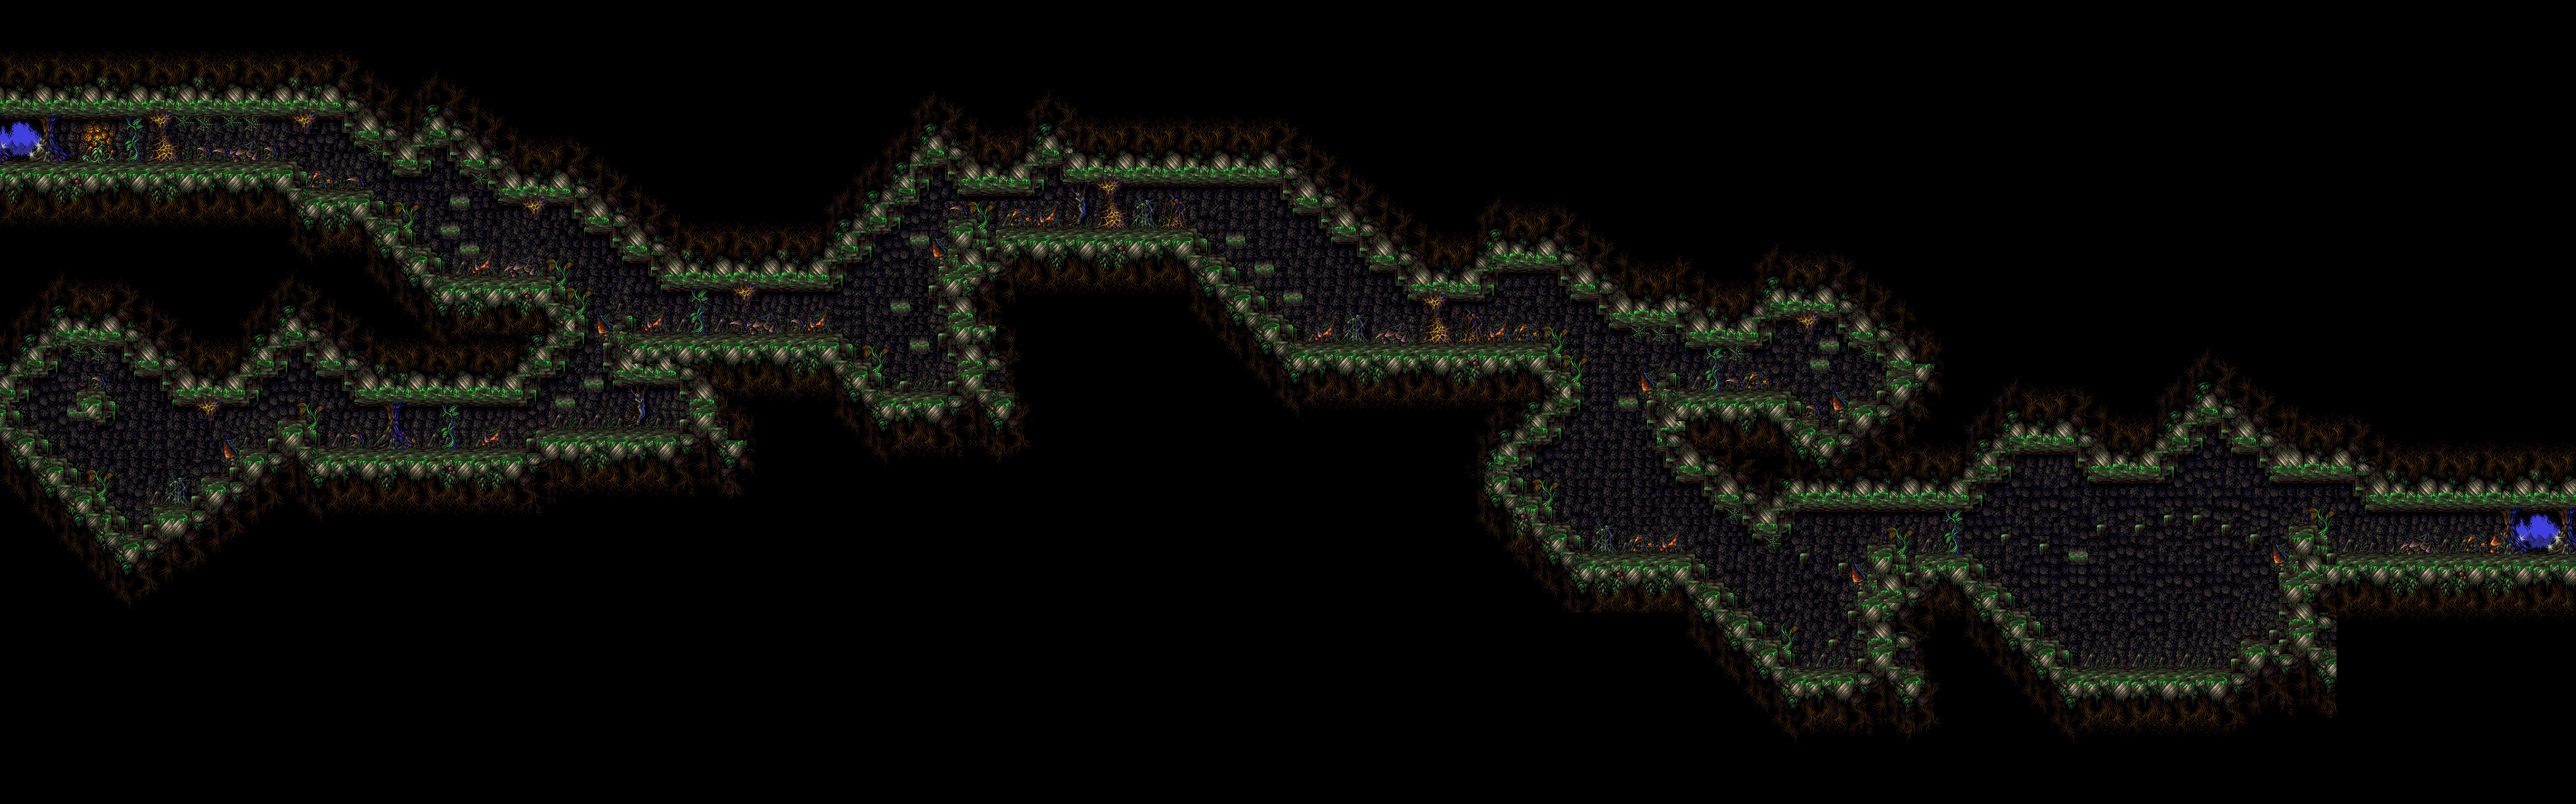
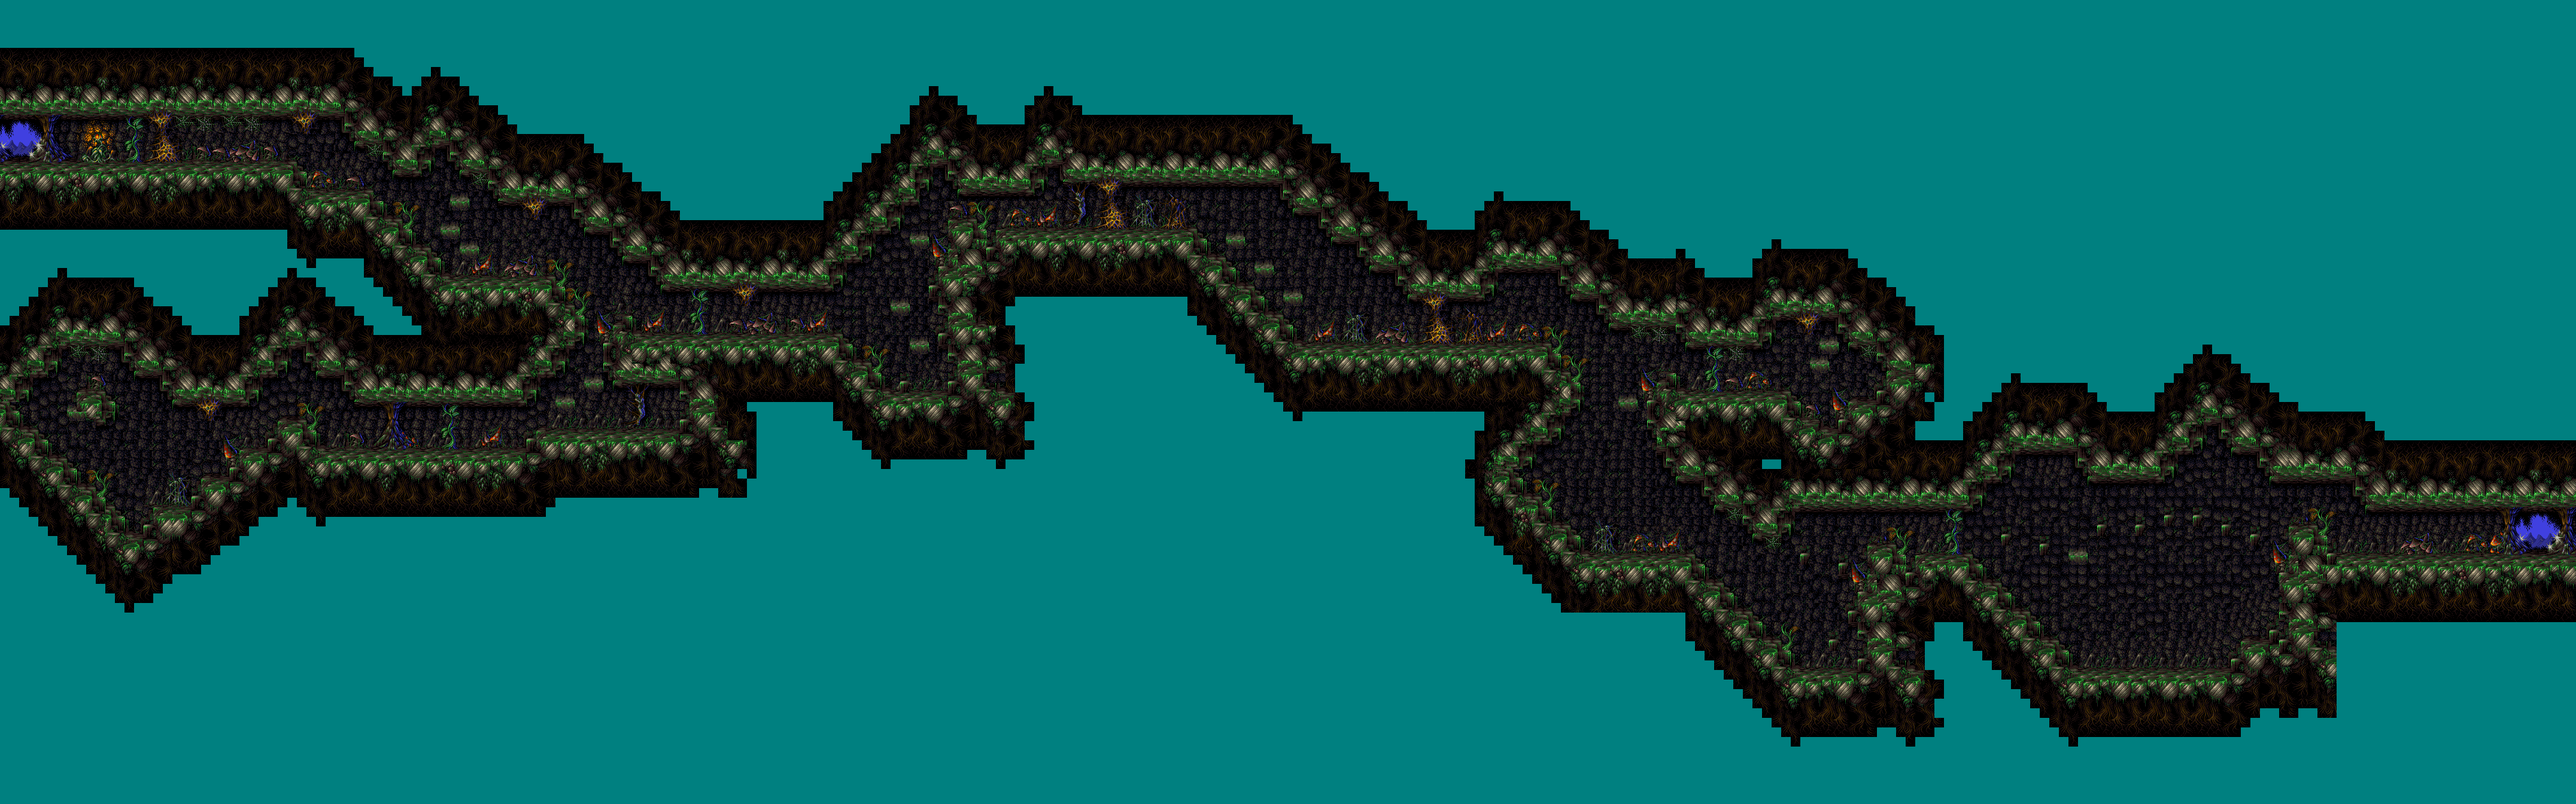
#208: Stages rip fixed. Tools updated.

diff --git a/lionheart-pc/src/main/java/com/b3dgs/lionheart/Tools.java b/lionheart-pc/src/main/java/com/b3dgs/lionheart/Tools.java
@@ -20,6 +20,7 @@ import com.b3dgs.lionengine.LionEngineException;
 import com.b3dgs.lionengine.Media;
 import com.b3dgs.lionengine.Medias;
 import com.b3dgs.lionengine.awt.graphic.EngineAwt;
+import com.b3dgs.lionengine.graphic.ColorRgba;
 import com.b3dgs.lionengine.graphic.Graphics;
 import com.b3dgs.lionengine.graphic.ImageBuffer;
 import com.b3dgs.lionheart.constant.Folder;
@@ -46,12 +47,58 @@ public final class Tools
     public static void main(String[] args) // CHECKSTYLE IGNORE LINE: TrailingComment|UncommentedMain
     {
         EngineAwt.start(Constant.PROGRAM_NAME, Constant.PROGRAM_VERSION, Tools.class);
-        // generateTileRaster(LandscapeType.DRAGONFLY);
+        // generateTileRaster(LandscapeType.SWAMP_DUSK);
         // generateTileRasterInside(LandscapeType.LAVA);
         // generateObjectRasterInside(LandscapeType.LAVA, "entity/lava/FloaterCube.png");
         // generateTileWaterRaster(LandscapeType.NORKA);
         // generateObjectWaterRaster(LandscapeType.NORKA, "pillar", 1, 1);
         // generateMoonRaster(LandscapeType.LAVA);
+        check(Medias.create("levels/spidercave2/level4_hard.png"));
+    }
+
+    private static final int COLOR2 = new ColorRgba(0, 128, 128).getRgba();
+
+    private static void check(Media level)
+    {
+        final ImageBuffer buffer = Graphics.getImageBuffer(level);
+        for (int y = 0; y < buffer.getHeight(); y += 16)
+        {
+            for (int x = 0; x < buffer.getWidth(); x += 16)
+            {
+                if (isColor(buffer, x, y))
+                {
+                    setColor(buffer, x, y);
+                }
+            }
+        }
+        Graphics.saveImage(buffer, Medias.create("stage10_hard.png"));
+    }
+
+    private static boolean isColor(ImageBuffer buffer, int x, int y)
+    {
+        for (int y1 = 0; y1 < 16; y1++)
+        {
+            for (int x1 = 0; x1 < 16; x1++)
+            {
+                if (buffer.getRgb(x + x1, y + y1) != ColorRgba.BLACK.getRgba())
+                {
+                    return false;
+                }
+            }
+        }
+        return true;
+    }
+
+    private static boolean setColor(ImageBuffer buffer, int x, int y)
+    {
+        for (int y1 = 0; y1 < 16; y1++)
+        {
+            for (int x1 = 0; x1 < 16; x1++)
+            {
+                buffer.setRgb(x + x1, y + y1, COLOR2);
+            }
+        }
+        return true;
     }
 
     /**
